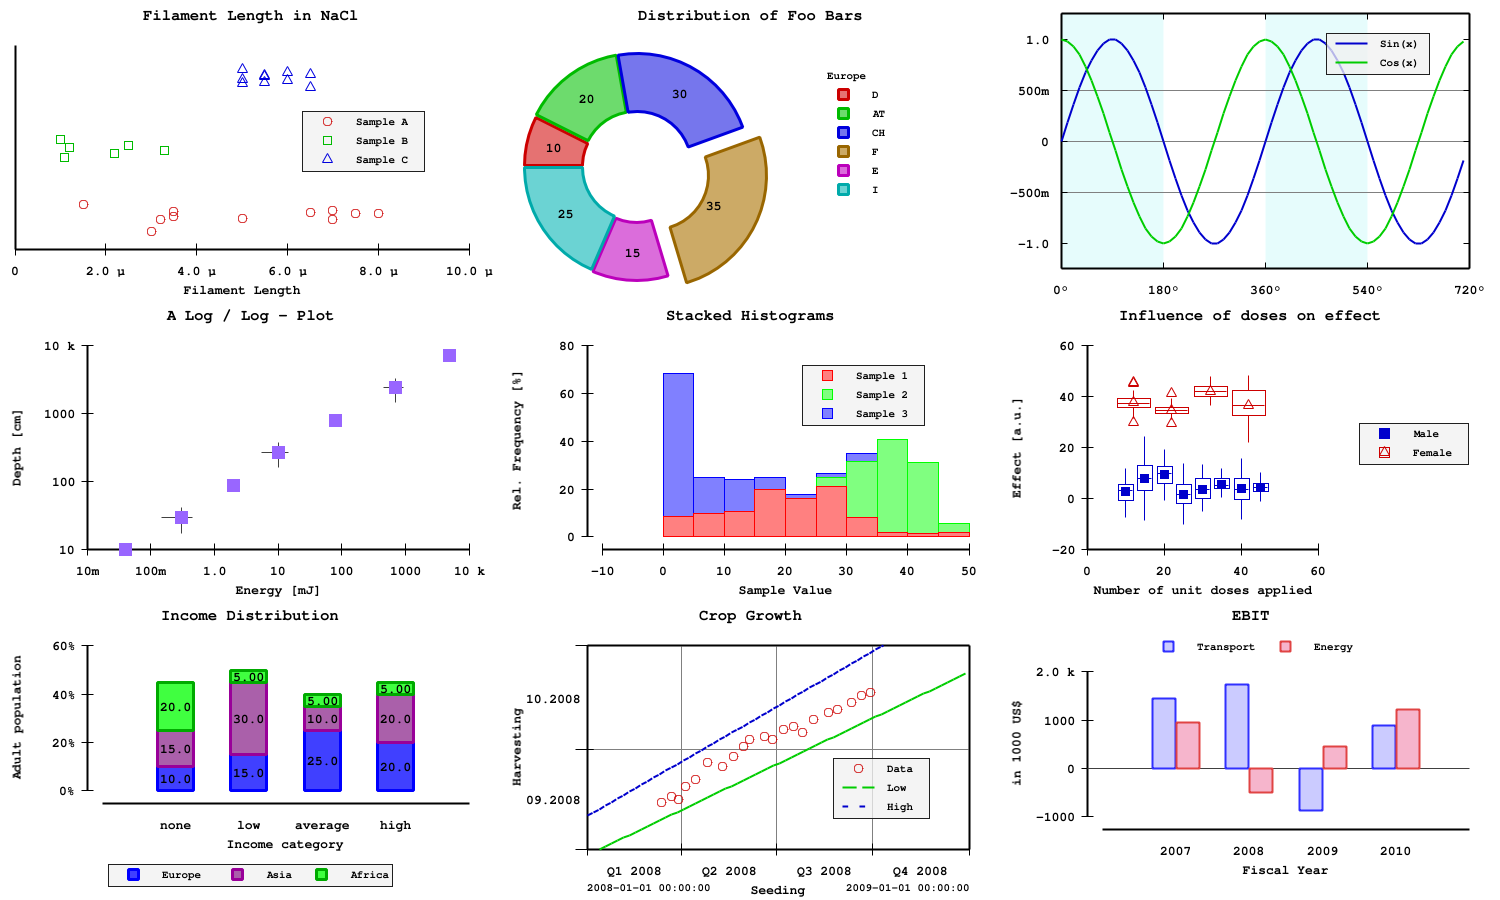
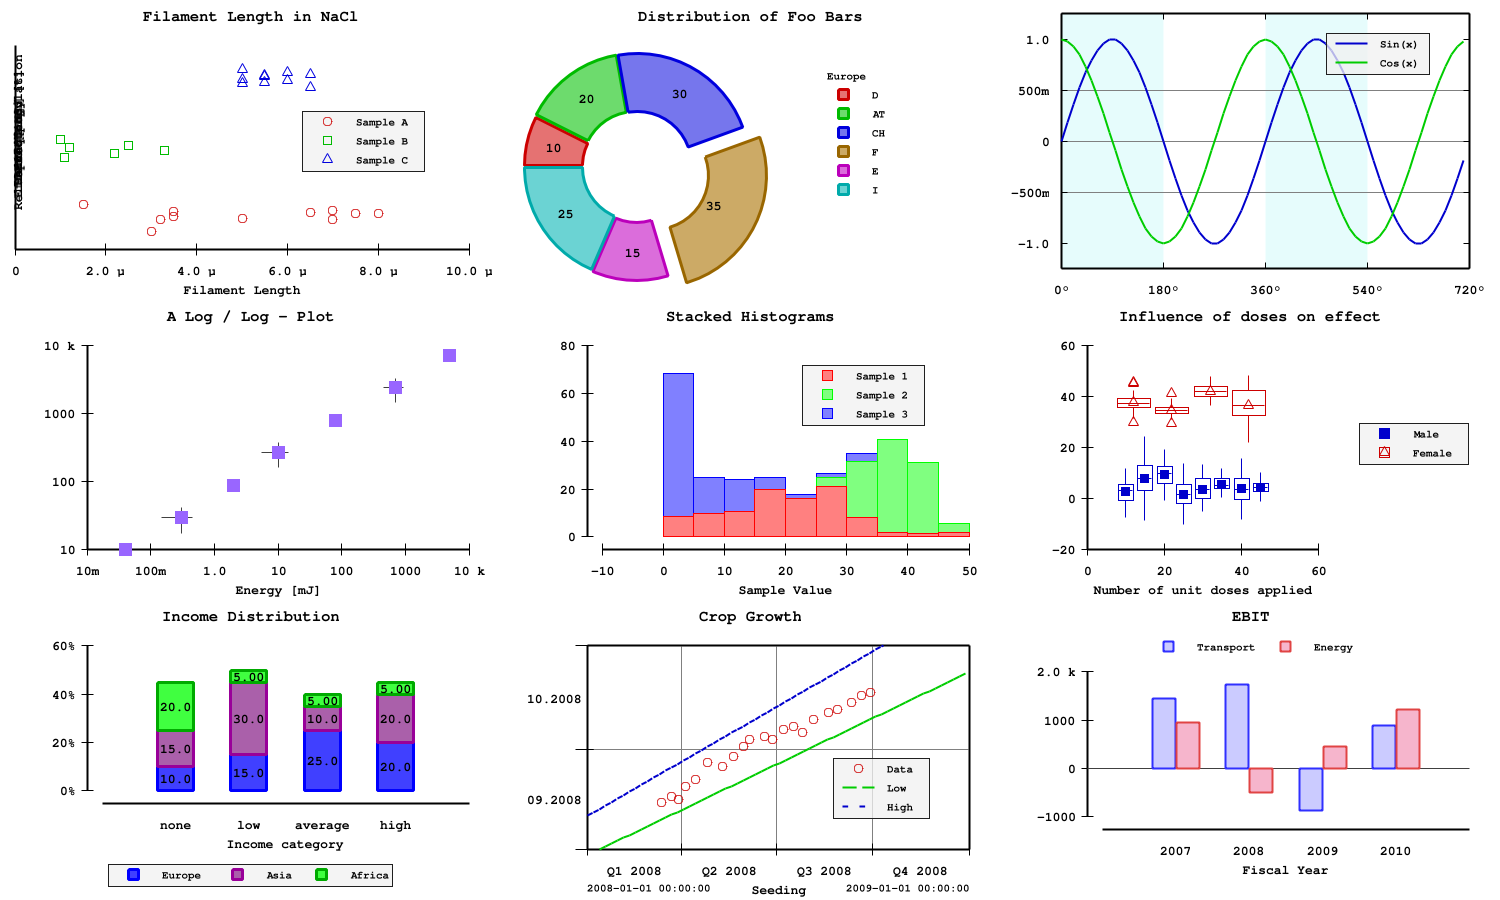
Rework img text drawing
Get rid of some (old) code.google.com-based image rotation code and replace it
with code from golang.org/x/image/draw which support rotations too.
The code is still ugly, e.g. rotation angles are strange and still provides
as ints in degree.
The code might show some different behaviour regarding the bounding box of
rotated text as the new code will aligne the [tcb][lcr] point of the text
to the given coordinate after rotation. A clean solution would probably require
additional alignment operators which align the enclosing rectangle.
Not sure what the 'correct' way to do this should be.

diff --git a/example/samplecharts.go b/example/samplecharts.go
@@ -3,11 +3,6 @@ package main
 import (
 	"flag"
 	"fmt"
-	"github.com/ajstarks/svgo"
-	"github.com/vdobler/chart"
-	"github.com/vdobler/chart/imgg"
-	"github.com/vdobler/chart/svgg"
-	"github.com/vdobler/chart/txtg"
 	"image"
 	"image/color"
 	"image/draw"
@@ -18,6 +13,12 @@ import (
 	"os"
 	"sort"
 	"time"
+
+	"github.com/ajstarks/svgo"
+	"github.com/vdobler/chart"
+	"github.com/vdobler/chart/imgg"
+	"github.com/vdobler/chart/svgg"
+	"github.com/vdobler/chart/txtg"
 )
 
 var (
@@ -865,11 +866,11 @@ func textlen() {
 // Test of graphic primitives
 //
 func testGraphics() {
-	dumper := NewDumper("xgraphics", 1, 1, 800, 416)
+	dumper := NewDumper("xgraphics", 1, 1, 900, 416)
 	defer dumper.Close()
 
-	igr := imgg.AddTo(dumper.I, 0, 0, 800, 416, color.RGBA{0xff, 0xff, 0xff, 0xff}, nil, nil)
-	sgr := svgg.AddTo(dumper.S, 0, 0, 800, 416, "", 14, color.RGBA{0xff, 0xff, 0xff, 0xff})
+	igr := imgg.AddTo(dumper.I, 0, 0, 900, 416, color.RGBA{0xff, 0xff, 0xff, 0xff}, nil, nil)
+	sgr := svgg.AddTo(dumper.S, 0, 0, 900, 416, "", 14, color.RGBA{0xff, 0xff, 0xff, 0xff})
 
 	style := chart.Style{LineWidth: 0, LineColor: color.NRGBA{0x00, 0x00, 0x00, 0xff}, LineStyle: chart.SolidLine}
 
@@ -947,20 +948,20 @@ func testGraphics() {
 	rx, ry := 180, 10
 	px, py := 450, 90
 	text := "(JgbXÄj)"
-	alignedText(igr, text, font, rx, ry, px, py)
-	alignedText(sgr, text, font, rx, ry, px, py)
+	alignedText(igr, text, font, rx, ry, px, py, 0, 0)
+	alignedText(sgr, text, font, rx, ry, px, py, 0, 0)
 
 	font.Size = chart.HugeFontSize
 	rx, ry = 180, 100
 	px, py = 450, 180
-	alignedText(igr, text, font, rx, ry, px, py)
-	alignedText(sgr, text, font, rx, ry, px, py)
+	alignedText(igr, text, font, rx, ry, px, py, 0, 0)
+	alignedText(sgr, text, font, rx, ry, px, py, 0, 0)
 
 	font.Size = chart.TinyFontSize
 	rx, ry = 180, 190
 	px, py = 450, 270
-	alignedText(igr, text, font, rx, ry, px, py)
-	alignedText(sgr, text, font, rx, ry, px, py)
+	alignedText(igr, text, font, rx, ry, px, py, 0, 0)
+	alignedText(sgr, text, font, rx, ry, px, py, 0, 0)
 
 	// Rectangles
 	x0, y0 = 180, 285
@@ -1010,9 +1011,43 @@ func testGraphics() {
 		}
 	}
 
+	// Rotated text
+	gray := color.NRGBA{0x80, 0x80, 0x80, 0xff}
+	style = chart.Style{LineColor: gray, FillColor: gray}
+	rx, ry = 675, 50
+	px, py = 875, 200
+	// igr.Rect(rx, ry, px-rx, py-ry, style)
+	// sgr.Rect(rx, ry, px-rx, py-ry, style)
+	text = "[##X##]"
+	alignedText(igr, text, font, rx, ry, px, py, 20, 5)
+	alignedText(sgr, text, font, rx, ry, px, py, 20, 5)
+
+	x0, y0 = 775, 325
+	black := color.NRGBA{0x00, 0x00, 0x00, 0xff}
+	font.Color = black
+	style.LineWidth, style.LineColor, style.LineStyle = 1, black, chart.SolidLine
+	igr.Line(x0-100, y0, x0+100, y0, style)
+	igr.Line(x0, y0-100, x0, y0+100, style)
+	igr.Text(x0, y0, "abcABCxyz", "cc", 1, font)
+	igr.Text(x0, y0, "abcABCxyz", "cc", 30, font)
+	igr.Text(x0, y0, "abcABCxyz", "cc", 60, font)
+	igr.Text(x0, y0, "abcABCxyz", "cc", 90, font)
+
+	/*
+		font.Color = color.NRGBA{0xee, 0x00, 0x00, 0xff}
+		igr.Text(x0, y0, "abcABCxyz", "tl", 1, font)
+		igr.Text(x0, y0, "abcABCxyz", "tl", 30, font)
+		igr.Text(x0, y0, "abcABCxyz", "tl", 60, font)
+		igr.Text(x0, y0, "abcABCxyz", "tl", 90, font)
+		font.Color = color.NRGBA{0x11, 0xee, 0x11, 0xff}
+		igr.Text(x0, y0, "abcABCxyz", "br", 1, font)
+		igr.Text(x0, y0, "abcABCxyz", "br", 30, font)
+		igr.Text(x0, y0, "abcABCxyz", "br", 60, font)
+		igr.Text(x0, y0, "abcABCxyz", "br", 90, font)
+	*/
 }
 
-func alignedText(g chart.Graphics, text string, font chart.Font, rx, ry, px, py int) {
+func alignedText(g chart.Graphics, text string, font chart.Font, rx, ry, px, py int, rot int, drot int) {
 	mx, my := (rx+px)/2, (ry+py)/2
 	var style chart.Style
 	style.LineWidth, style.LineColor, style.LineStyle = 1, color.NRGBA{0xff, 0x00, 0x00, 0xff}, chart.SolidLine
@@ -1024,23 +1059,31 @@ func alignedText(g chart.Graphics, text string, font chart.Font, rx, ry, px, py 
 	g.Line(rx, my, px, my, style)
 
 	font.Color = color.NRGBA{0x00, 0x00, 0x00, 0xff}
-	g.Text(rx, ry, text, "tl", 0, font)
+	g.Text(rx, ry, text, "tl", rot, font)
 	font.Color = color.NRGBA{0xff, 0x00, 0x00, 0xff}
-	g.Text(mx, ry, text, "tc", 0, font)
+	rot += drot
+	g.Text(mx, ry, text, "tc", rot, font)
 	font.Color = color.NRGBA{0x00, 0xff, 0x00, 0xff}
-	g.Text(px, ry, text, "tr", 0, font)
+	rot += drot
+	g.Text(px, ry, text, "tr", rot, font)
 	font.Color = color.NRGBA{0x00, 0x00, 0xff, 0xff}
-	g.Text(rx, my, text, "cl", 0, font)
+	rot += drot
+	g.Text(rx, my, text, "cl", rot, font)
 	font.Color = color.NRGBA{0xbb, 0xbb, 0x00, 0xff}
-	g.Text(mx, my, text, "cc", 0, font)
+	rot += drot
+	g.Text(mx, my, text, "cc", rot, font)
 	font.Color = color.NRGBA{0xff, 0x00, 0xff, 0xff}
-	g.Text(px, my, text, "cr", 0, font)
+	rot += drot
+	g.Text(px, my, text, "cr", rot, font)
 	font.Color = color.NRGBA{0x00, 0xff, 0xff, 0xff}
-	g.Text(rx, py, text, "bl", 0, font)
+	rot += drot
+	g.Text(rx, py, text, "bl", rot, font)
 	font.Color = color.NRGBA{0x60, 0x60, 0x60, 0xff}
-	g.Text(mx, py, text, "bc", 0, font)
+	rot += drot
+	g.Text(mx, py, text, "bc", rot, font)
 	font.Color = color.NRGBA{0x00, 0x00, 0x00, 0xff}
-	g.Text(px, py, text, "br", 0, font)
+	rot += drot
+	g.Text(px, py, text, "br", rot, font)
 }
 
 func bestOf() {

diff --git a/imgg/image.go b/imgg/image.go
@@ -3,16 +3,16 @@ package imgg
 import (
 	"image"
 	"image/color"
-	"image/draw"
 	"log"
 	"math"
 
-	"code.google.com/p/graphics-go/graphics"
 	"github.com/golang/freetype"
 	"github.com/golang/freetype/truetype"
 	"github.com/llgcode/draw2d"
 	"github.com/llgcode/draw2d/draw2dimg"
 	"github.com/vdobler/chart"
+	"golang.org/x/image/draw"
+	"golang.org/x/image/math/f64"
 	"golang.org/x/image/math/fixed"
 )
 
@@ -173,7 +173,14 @@ func (ig *ImageGraphics) Text(x, y int, t string, align string, rot int, f chart
 		align = "c" + align
 	}
 
-	textImage := ig.textBox(t, f)
+	var col color.Color
+	if f.Color != nil {
+		col = f.Color
+	} else {
+		col = color.RGBA{0, 0, 0, 0xff}
+	}
+
+	textImage := ig.textBox(t, f, col)
 	bounds := textImage.Bounds()
 	w, h := bounds.Dx(), bounds.Dy()
 	var centerX, centerY int
@@ -182,33 +189,31 @@ func (ig *ImageGraphics) Text(x, y int, t string, align string, rot int, f chart
 		alpha := float64(rot) / 180 * math.Pi
 		cos := math.Cos(alpha)
 		sin := math.Sin(alpha)
-		hs, hc := float64(h)*sin, float64(h)*cos
-		ws, wc := float64(w)*sin, float64(w)*cos
-		W := int(math.Ceil(hs + wc))
-		H := int(math.Ceil(hc + ws))
-		rotated := image.NewAlpha(image.Rect(0, 0, W, H))
-		graphics.Rotate(rotated, textImage, &graphics.RotateOptions{-alpha})
-		textImage = rotated
-		centerX, centerY = W/2, H/2
 
-		switch align {
-		case "bl":
-			centerX, centerY = int(hs), H
-		case "bc":
-			centerX, centerY = W-int(wc/2), int(ws/2)
-		case "br":
-			centerX, centerY = W, int(hc)
-		case "tl":
-			centerX, centerY = 0, H-int(hc)
-		case "tc":
-			centerX, centerY = int(ws/2), H-int(ws/2)
-		case "tr":
-			centerX, centerY = W-int(hs), 0
-		case "cl":
-			centerX, centerY = int(hs/2), H-int(hc/2)
-		case "cr":
-			centerX, centerY = W-int(hs/2), int(hc/2)
+		ax, ay := float64(w), float64(h) // anchor point
+		switch align[0] {
+		case 'b':
+		case 'c':
+			ay /= 2
+		case 't':
+			ay = 0
 		}
+		switch align[1] {
+		case 'l':
+			ax = 0
+		case 'c':
+			ax /= 2
+		case 'r':
+		}
+		dx := float64(ax)*cos + float64(ay)*sin
+		dy := -float64(ax)*sin + float64(ay)*cos
+		trans := f64.Aff3{
+			+cos, +sin, float64(x) - dx,
+			-sin, +cos, float64(y) - dy,
+		}
+		draw.BiLinear.Transform(ig.Image, trans,
+			textImage, textImage.Bounds(), draw.Over, nil)
+		return
 	} else {
 		centerX, centerY = w/2, h/2
 		switch align[0] {
@@ -232,23 +237,16 @@ func (ig *ImageGraphics) Text(x, y int, t string, align string, rot int, f chart
 	x += ig.x0
 	y += ig.y0
 
-	var col color.Color
-	if f.Color != nil {
-		col = f.Color
-	} else {
-		col = color.NRGBA{0, 0, 0, 0xff}
-	}
 	tcol := image.NewUniform(col)
-
 	draw.DrawMask(ig.Image, image.Rect(x, y, x+w, y+h), tcol, image.ZP,
 		textImage, textImage.Bounds().Min, draw.Over)
 }
 
 // textBox renders t into a tight fitting image
-func (ig *ImageGraphics) textBox(t string, font chart.Font) image.Image {
+func (ig *ImageGraphics) textBox(t string, font chart.Font, textCol color.Color) image.Image {
 	// Initialize the context.
-	fg := image.NewUniform(color.Alpha{0xff})
-	bg := image.NewUniform(color.Alpha{0x00})
+	bg := image.NewUniform(color.Alpha{0})
+	fg := image.NewUniform(textCol)
 	width := ig.TextLen(t, font)
 	size := ig.relFontsizeToPixel(font.Size)
 
@@ -259,23 +257,8 @@ func (ig *ImageGraphics) textBox(t string, font chart.Font) image.Image {
 	bb := ig.font.Bounds(c.PointToFixed(float64(size)))
 	bbDelta := bb.Max.Sub(bb.Min)
 
-	// TODO: Ugly, manual, heuristic hack to get "nicer" text for common latin characters
-	/*
-		bb.YMin++
-		if size >= 15 {
-			bb.YMin++
-			bb.YMax--
-		}
-		if size >= 20 {
-			bb.YMax--
-		}
-		if size >= 25 {
-			bb.YMin++
-			bb.YMax--
-		}
-	*/
 	height := int(bbDelta.Y+32) >> 6
-	canvas := image.NewAlpha(image.Rect(0, 0, width, height))
+	canvas := image.NewRGBA(image.Rect(0, 0, width, height))
 	draw.Draw(canvas, canvas.Bounds(), bg, image.ZP, draw.Src)
 	c.SetDst(canvas)
 	c.SetSrc(fg)
@@ -286,7 +269,15 @@ func (ig *ImageGraphics) textBox(t string, font chart.Font) image.Image {
 		log.Println(err)
 		return nil
 	}
-	return canvas.SubImage(image.Rect(0, 0, int(extent.X)>>6, height))
+
+	// Ugly heuristic hack: font bounds are pretty high resulting in white top border: Trim.
+	topskip := 1
+	if size > 15 {
+		topskip = 2
+	} else if size > 20 {
+		topskip = 3
+	}
+	return canvas.SubImage(image.Rect(0, topskip, int(extent.X)>>6, height))
 }
 
 func (ig *ImageGraphics) paint(x, y int, R, G, B uint32, alpha uint32) {
